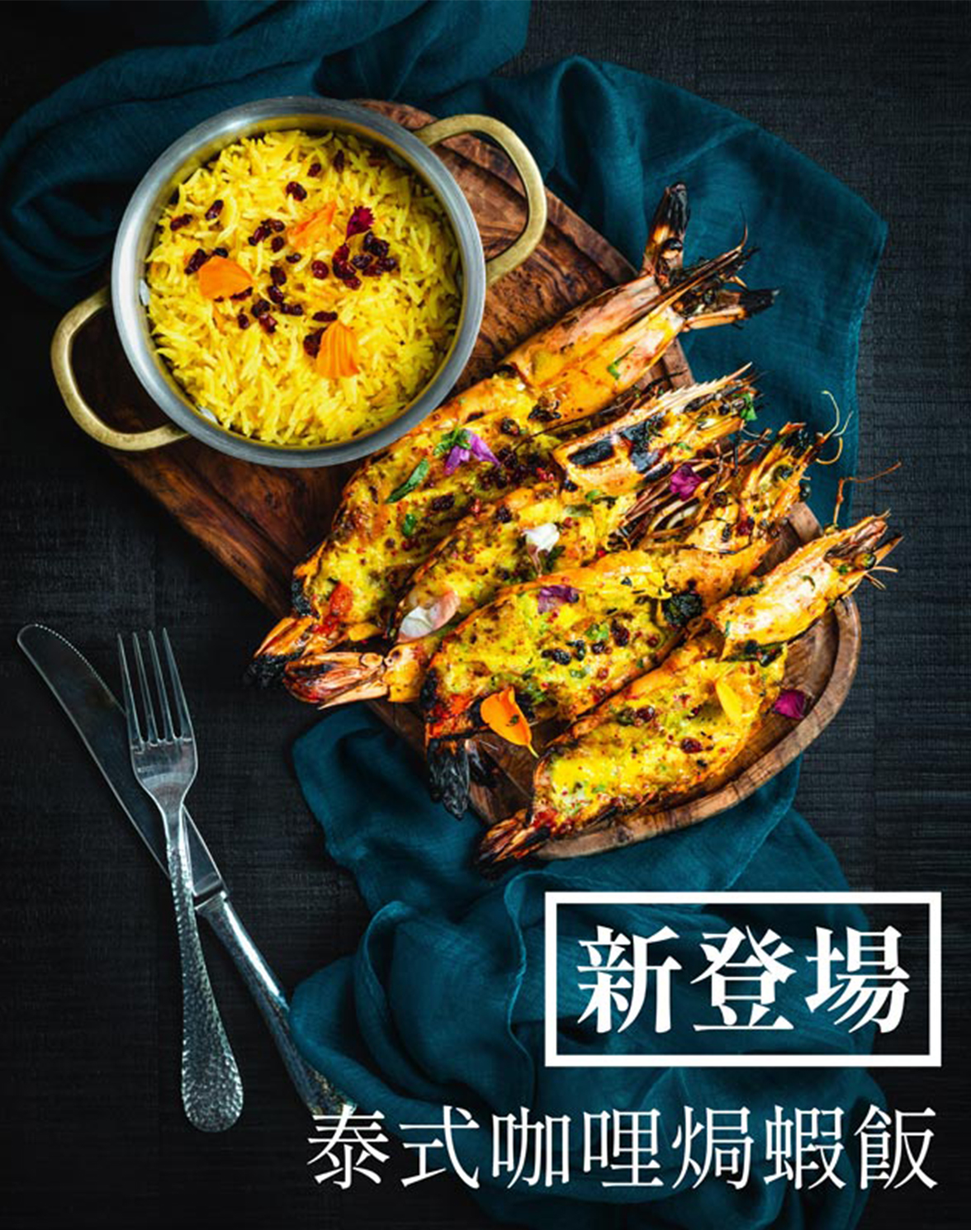
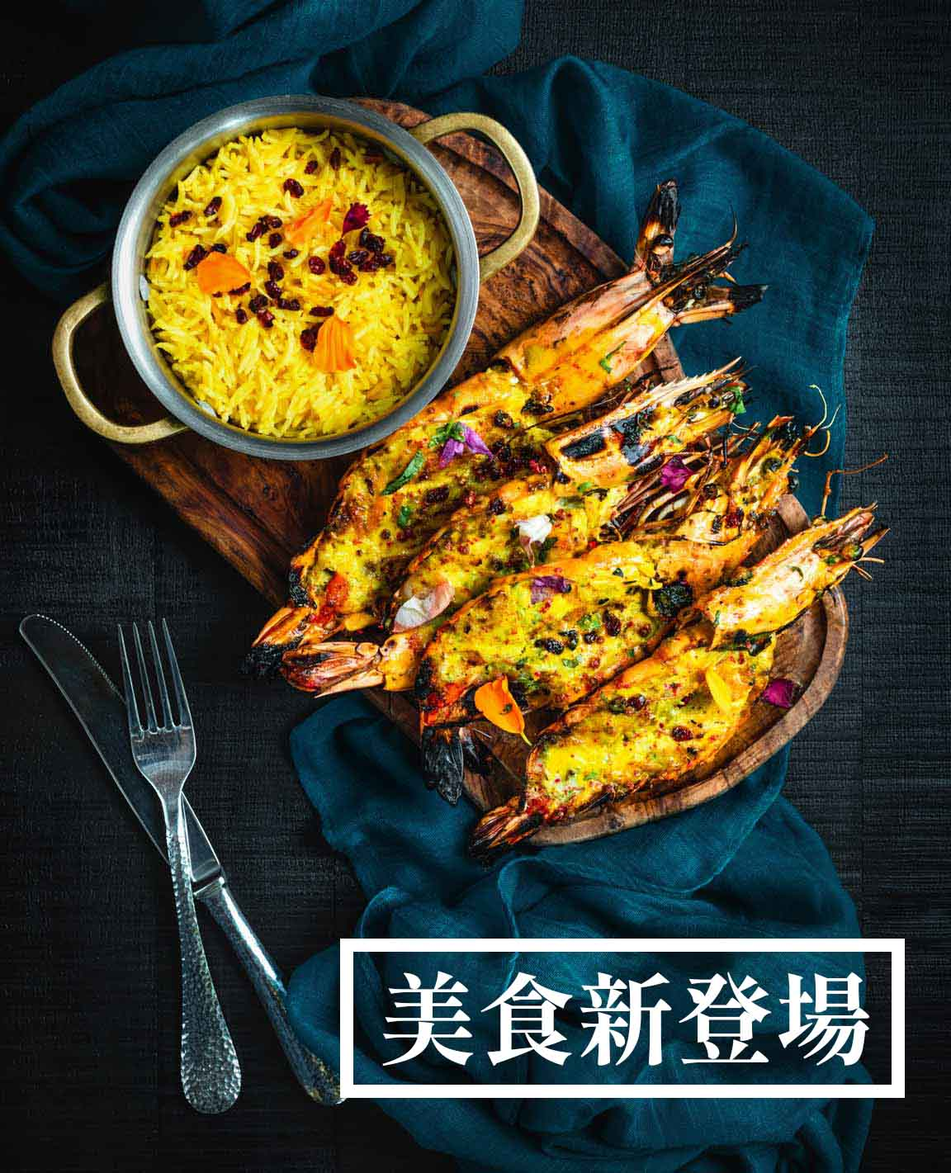
update index newitem

diff --git a/css/main.css b/css/main.css
@@ -1,1 +1,1 @@
-*{-webkit-box-sizing:border-box;box-sizing:border-box;font-family:Microsoft JhengHei}html{font-size:12px}ul{margin:0}li{list-style-type:none}img{display:block;width:100%;height:auto}a{text-decoration:none}h1{font-size:2.25rem;margin:0;padding:0.75rem 0}h2{font-size:1.75rem}p{margin:0;font-size:1.25rem;line-height:1.5;letter-spacing:0.5px}.col-4{width:100%}.col-6{width:100%}.col-12{width:100%}.container{width:83.3333333vw;margin:0 auto}.swiper-pagination-bullet{background-color:#B7B7B7}.flexbox-header{display:-webkit-box;display:-ms-flexbox;display:flex;-webkit-box-pack:justify;-ms-flex-pack:justify;justify-content:space-between;-webkit-box-align:center;-ms-flex-align:center;align-items:center}.mobile-menu{display:none;-webkit-box-orient:vertical;-webkit-box-direction:normal;-ms-flex-direction:column;flex-direction:column;width:100vw;position:fixed;top:0;left:0;right:0;bottom:0;z-index:2;background-color:#000000}.mobile-menu.active{display:-webkit-box;display:-ms-flexbox;display:flex}.mobile-menu .mobile-header{padding:1.25rem 0;background-color:#FFFFFF}.mobile-menu .mobile-header .container{display:-webkit-box;display:-ms-flexbox;display:flex;-webkit-box-pack:justify;-ms-flex-pack:justify;justify-content:space-between;-webkit-box-align:center;-ms-flex-align:center;align-items:center}.mobile-menu .mobile-logo{width:63px}.mobile-menu .mobile-cancel div{width:25px;height:3px;background-color:#000000;border-radius:4px}.mobile-menu .mobile-cancel div:first-child{-webkit-transform:translateY(1.5px) rotate(-45deg);-ms-transform:translateY(1.5px) rotate(-45deg);transform:translateY(1.5px) rotate(-45deg)}.mobile-menu .mobile-cancel div:nth-child(2){-webkit-transform:translateY(-1.5px) rotate(45deg);-ms-transform:translateY(-1.5px) rotate(45deg);transform:translateY(-1.5px) rotate(45deg)}.mobile-menu .mobile-nav{display:-webkit-box;display:-ms-flexbox;display:flex;-webkit-box-orient:vertical;-webkit-box-direction:normal;-ms-flex-direction:column;flex-direction:column;-webkit-box-pack:center;-ms-flex-pack:center;justify-content:center;-webkit-box-align:center;-ms-flex-align:center;align-items:center}.mobile-menu .mobile-nav a{width:100vw;padding:3rem 0}.mobile-menu .mobile-nav a:nth-child(2n-1){background-color:#292929}.mobile-menu .mobile-nav a:nth-child(2n){background-color:#000000}.mobile-menu .mobile-nav a p{font-size:1.75rem;color:#FFFFFF;text-align:center}.mobile-menu .mobile-social{display:-webkit-box;display:-ms-flexbox;display:flex;-webkit-box-pack:center;-ms-flex-pack:center;justify-content:center;-webkit-box-align:center;-ms-flex-align:center;align-items:center;background-color:#292929}.mobile-menu .mobile-social a{padding:2rem 0;font-size:1.75rem;color:#FFFFFF}.mobile-menu .mobile-social a:first-child{padding-right:1.5rem}.mobile-menu .mobile-social a:nth-child(2){padding-left:1.5rem}#header{margin:1.25rem 0}#header .logo{width:63px}#header .nav-left,#header .nav-right{display:none}#header .hamburger-icon>div{width:40px;height:4px;background-color:#000000}#header .hamburger-icon>div:nth-child(2){margin-top:10px}#header .hamburger-icon>div:nth-child(3){margin-top:10px}#content>div{margin-top:7.5rem}#content .pagename{margin:0}#content .pagename h1{padding:1.25rem 0;color:#6F4626}#content .slider{margin-top:0}#content .intro{margin-top:0}#content .intro h1{text-align:center}#content .newitem .newitem-content{display:-webkit-box;display:-ms-flexbox;display:flex;-webkit-box-orient:vertical;-webkit-box-direction:normal;-ms-flex-direction:column;flex-direction:column;padding:0 1.25rem;background-color:#B7B7B7}#content .newitem .newitem-content h1{padding-top:0.75rem;padding-bottom:0}#content .newitem .newitem-content p{padding-top:0.75rem}#content .newitem .newitem-content .gotomenu{width:10rem;margin:1rem 0 1.75rem 0;padding:0.75rem 0.5rem;background-color:#292929;color:#FFFFFF;font-size:1.25rem}#content .anniversary .container{width:100vw}#content .write-email{height:17.5rem;background-image:url(email.jpg);background-repeat:no-repeat;background-size:cover;background-attachment:fixed;background-position:50%;display:-webkit-box;display:-ms-flexbox;display:flex;-webkit-box-pack:center;-ms-flex-pack:center;justify-content:center;-webkit-box-align:center;-ms-flex-align:center;align-items:center}#content .write-email .container{display:-webkit-box;display:-ms-flexbox;display:flex;-webkit-box-pack:center;-ms-flex-pack:center;justify-content:center;-webkit-box-align:center;-ms-flex-align:center;align-items:center}#content .write-email .center-block{-webkit-box-orient:vertical;-webkit-box-direction:normal;-ms-flex-direction:column;flex-direction:column;-webkit-box-pack:center;-ms-flex-pack:center;justify-content:center;-webkit-box-align:center;-ms-flex-align:center;align-items:center;width:83.3333333vw;height:12rem;display:-webkit-box;display:-ms-flexbox;display:flex;background-color:rgba(111, 70, 38, 0.9)}#content .write-email .center-block h1{font-size:1.25rem;color:#FFFFFF}#content .write-email .center-block input{width:66.6666667vw;height:2.5rem;margin:0.5rem 0 0.75rem 0;padding-left:0.25rem;border:none}#content .write-email .center-block button{display:-webkit-box;display:-ms-flexbox;display:flex;-webkit-box-pack:center;-ms-flex-pack:center;justify-content:center;-webkit-box-align:center;-ms-flex-align:center;align-items:center;width:66.6666667vw;height:2.5rem;background-color:#292929;color:#FFFFFF;font-size:1.25rem;border:none}#content .delicious{margin-top:0}#content .coffee .container{display:-webkit-box;display:-ms-flexbox;display:flex;-webkit-box-orient:vertical;-webkit-box-direction:normal;-ms-flex-direction:column;flex-direction:column}#content .coffee .coffee-image{-webkit-box-ordinal-group:0;-ms-flex-order:-1;order:-1}#content .coffee .coffee-content{padding:1.25rem;background-color:#4E321C;color:#FFFFFF}#content .coffee .coffee-content p{margin-top:0.5rem}#content .coffee .coffee-content a{display:inline-block;margin:2.5rem 0 1rem 0;padding:0.5rem 1.25rem;font-size:1.75em;font-weight:800;color:#000000;background-color:#FFFFFF}#content .coffee h1{font-size:1.75rem}#content .comfortable .container{display:-webkit-box;display:-ms-flexbox;display:flex;-webkit-box-orient:vertical;-webkit-box-direction:normal;-ms-flex-direction:column;flex-direction:column}#content .comfortable .comfortable-image{-webkit-box-ordinal-group:0;-ms-flex-order:-1;order:-1}#content .comfortable .comfortable-content{padding:1.25rem;background-color:#292929;color:#FFFFFF}#content .comfortable .comfortable-content p{margin-top:0.5rem}#content .comfortable .comfortable-content a{display:inline-block;margin:2.5rem 0 1rem 0;padding:0.5rem 1.25rem;font-size:1.75em;font-weight:800;color:#000000;background-color:#FFFFFF}#content .comfortable h1{font-size:1.75rem}#content .location{background-image:url(location.jpg);background-repeat:no-repeat;background-size:cover;background-attachment:fixed;background-position:50%;display:-webkit-box;display:-ms-flexbox;display:flex;-webkit-box-pack:center;-ms-flex-pack:center;justify-content:center;-webkit-box-align:center;-ms-flex-align:center;align-items:center;height:50rem}#content .location h1{padding-bottom:1.75rem;text-align:center;color:#FFFFFF}#content .location .googlemap{display:-webkit-box;display:-ms-flexbox;display:flex;-webkit-box-pack:center;-ms-flex-pack:center;justify-content:center;-webkit-box-align:center;-ms-flex-align:center;align-items:center;padding-bottom:1.75rem;color:#FFFFFF}#content .location .googlemap iframe{width:83.3333333vw}#content .location .location-content{display:-webkit-box;display:-ms-flexbox;display:flex;-webkit-box-pack:center;-ms-flex-pack:center;justify-content:center;color:#FFFFFF}#content .location .location-content p{padding-bottom:0.75rem}#content .item-bar{margin-top:0}#content .item-bar .container{display:-webkit-box;display:-ms-flexbox;display:flex;-webkit-box-pack:justify;-ms-flex-pack:justify;justify-content:space-between;-webkit-box-align:center;-ms-flex-align:center;align-items:center}#content .item-bar .line{width:1px;height:20px;background-color:#000000}#content .item-bar a{font-size:1.25rem;font-weight:800;color:#B7B7B7}#content .item-bar .active{color:#000000}#content .all-meal{margin-top:1.25rem}#content .all-meal .fooditem{height:83.3333333vw;margin:1.25rem 0;-webkit-box-shadow:0 2px 4px rgba(0, 0, 0, 0.16);box-shadow:0 2px 4px rgba(0, 0, 0, 0.16)}#content .all-meal .item-intro{padding:0 1.25rem;height:20.8vw;display:-webkit-box;display:-ms-flexbox;display:flex;-webkit-box-orient:vertical;-webkit-box-direction:normal;-ms-flex-direction:column;flex-direction:column;-webkit-box-pack:center;-ms-flex-pack:center;justify-content:center}#content .all-meal .item-intro .item-kind{width:2.5rem;padding:0.25rem;background-color:#6F4626;color:#FFFFFF}#content .all-meal .item-intro .item-name{display:-webkit-box;display:-ms-flexbox;display:flex;-webkit-box-pack:justify;-ms-flex-pack:justify;justify-content:space-between;margin-top:0.5rem}#content .all-meal .item-intro .meal-name{font-size:1.75rem;font-weight:800}#content .all-meal .item-intro .meal-price{font-size:1.75rem}#content .all-meal .dessert,#content .all-meal .drink,#content .all-meal .main-meal,#content .all-meal .salad,#content .all-meal .snack,#content .all-meal .soup{display:none;-webkit-box-orient:vertical;-webkit-box-direction:normal;-ms-flex-direction:column;flex-direction:column}#content .all-meal .active{display:-webkit-box;display:-ms-flexbox;display:flex}#content .online{padding-top:2.5rem}#content .inputform{margin-top:0}#content .inputform input{width:100%;height:2.5rem;padding-left:0.25rem;margin-top:0.25rem;border:1px solid #B7B7B7}#content .inputform textarea{margin-top:0.25rem;width:100%;height:10rem;resize:none;border:1px solid #B7B7B7}#content .inputform label{display:inline-block;margin:0;padding-top:2rem;font-size:1.25rem;letter-spacing:0.5px}#content .inputform button{display:inline-block;margin-top:2.5rem;padding:0.5rem 1.75rem;background-color:#292929;color:#FFFFFF;border:1px solid transparent}#footer{margin-top:7.5rem;color:#B7B7B7}#footer a{color:#B7B7B7}#footer .information{background-color:#000000}#footer .information .footer-nav{display:-webkit-box;display:-ms-flexbox;display:flex;-webkit-box-orient:vertical;-webkit-box-direction:normal;-ms-flex-direction:column;flex-direction:column;-webkit-box-align:center;-ms-flex-align:center;align-items:center}#footer .information .footer-nav a{padding:0.75rem 0;font-size:1.25rem}#footer .information .footer-nav a:first-child{padding:1.75rem 0 0.75rem 0}#footer .information .social-media{display:-webkit-box;display:-ms-flexbox;display:flex;-webkit-box-pack:center;-ms-flex-pack:center;justify-content:center}#footer .information .social-media a{padding:0.75rem 0;font-size:1.5rem}#footer .information .social-media a:first-child{padding-right:1.5rem}#footer .information .copyright{display:-webkit-box;display:-ms-flexbox;display:flex;-webkit-box-pack:center;-ms-flex-pack:center;justify-content:center;padding:0.75rem 0 1.25rem 0;font-size:1rem}#footer .statement{padding:0.75rem 0;background-color:#292929;text-align:center}@media (min-width:768px) and (max-width:1279px){.col-4{width:334px}.col-6{width:50%}html{font-size:16px}.container{width:700px}#header{margin:1.75rem 0}#header .logo{width:83px}#header .nav-left,#header .nav-right{display:-webkit-box;display:-ms-flexbox;display:flex;-webkit-box-pack:center;-ms-flex-pack:center;justify-content:center;-webkit-box-align:center;-ms-flex-align:center;align-items:center}#header .aboutus,#header .home,#header .newmenu,#header .reservation{display:-webkit-box;display:-ms-flexbox;display:flex;-webkit-box-orient:vertical;-webkit-box-direction:normal;-ms-flex-direction:column;flex-direction:column;-ms-flex-pack:distribute;justify-content:space-around;-webkit-box-align:center;-ms-flex-align:center;align-items:center;width:7rem;height:5rem}#header .icon{font-size:2.5rem;font-weight:800;color:#000000}#header .name{font-size:1.25rem;font-weight:800;color:#000000}#header .nav-line{width:1px;height:5rem;background-color:#B7B7B7}#header .hamburger-menu{display:none}#content .intro{margin-top:7.5rem}#content .intro .container{width:28rem}#content .newitem .container{display:-webkit-box;display:-ms-flexbox;display:flex;-webkit-box-pack:center;-ms-flex-pack:center;justify-content:center;-webkit-box-align:center;-ms-flex-align:center;align-items:center}#content .newitem .newitem-content{height:22.5rem;padding:0 1.5rem;-webkit-box-pack:center;-ms-flex-pack:center;justify-content:center}#content .newitem .newitem-content .gotomenu{margin:1rem 0 0 0}#content .anniversary .container{width:700px}#content .write-email{width:700px;margin:7.5rem auto}#content .write-email .center-block{width:600px}#content .write-email .center-block input{width:500px;padding-left:0.5rem}#content .write-email .center-block button{width:500px}#content .delicious{width:700px;margin:0 auto}#content .delicious .container{width:28rem;margin-top:3.25rem}#content .delicious h1{text-align:center}#content .coffee .container{-webkit-box-orient:horizontal;-webkit-box-direction:normal;-ms-flex-direction:row;flex-direction:row;-webkit-box-align:center;-ms-flex-align:center;align-items:center;position:relative}#content .coffee .coffee-content{display:-webkit-box;display:-ms-flexbox;display:flex;-webkit-box-orient:vertical;-webkit-box-direction:normal;-ms-flex-direction:column;flex-direction:column;-webkit-box-pack:center;-ms-flex-pack:center;justify-content:center;position:absolute;padding:0 5rem 0 2rem;width:388px;height:447px;top:100px}#content .coffee .coffee-content a{width:187px}#content .coffee .coffee-image{width:52%;position:relative;left:336px;-webkit-box-ordinal-group:1;-ms-flex-order:0;order:0;z-index:1}#content .comfortable{margin-top:220px}#content .comfortable .container{-webkit-box-orient:horizontal;-webkit-box-direction:normal;-ms-flex-direction:row;flex-direction:row;-webkit-box-align:center;-ms-flex-align:center;align-items:center;position:relative}#content .comfortable .comfortable-content{display:-webkit-box;display:-ms-flexbox;display:flex;-webkit-box-orient:vertical;-webkit-box-direction:normal;-ms-flex-direction:column;flex-direction:column;-webkit-box-pack:center;-ms-flex-pack:center;justify-content:center;position:absolute;padding:0 1.5rem 0 5.25rem;width:388px;height:447px;top:100px;left:312px}#content .comfortable .comfortable-content a{width:187px}#content .comfortable .comfortable-image{width:52%;position:relative;z-index:1}#content .location{margin-top:220px}#content .location .googlemap iframe{width:28rem;height:25rem}#content .all-meal .fooditem{height:334px}#content .all-meal .dessert,#content .all-meal .drink,#content .all-meal .main-meal,#content .all-meal .salad,#content .all-meal .snack,#content .all-meal .soup{-webkit-box-orient:horizontal;-webkit-box-direction:normal;-ms-flex-direction:row;flex-direction:row;-webkit-box-pack:justify;-ms-flex-pack:justify;justify-content:space-between;-ms-flex-wrap:wrap;flex-wrap:wrap}#content .all-meal .item-intro{height:83.5px}}@media (min-width:1280px){.col-4{width:368px}.col-6{width:50%}html{font-size:16px}p{line-height:1.5}.container{width:1152px}#header{margin:1.75rem 0}#header .logo{width:83px}#header .nav-left,#header .nav-right{display:-webkit-box;display:-ms-flexbox;display:flex;-webkit-box-pack:center;-ms-flex-pack:center;justify-content:center;-webkit-box-align:center;-ms-flex-align:center;align-items:center}#header .aboutus,#header .home,#header .newmenu,#header .reservation{display:-webkit-box;display:-ms-flexbox;display:flex;-webkit-box-orient:vertical;-webkit-box-direction:normal;-ms-flex-direction:column;flex-direction:column;-ms-flex-pack:distribute;justify-content:space-around;-webkit-box-align:center;-ms-flex-align:center;align-items:center;width:7rem;height:5rem}#header .aboutus:hover .icon,#header .aboutus:hover .name,#header .home:hover .icon,#header .home:hover .name,#header .newmenu:hover .icon,#header .newmenu:hover .name,#header .reservation:hover .icon,#header .reservation:hover .name{color:#6F4626;-webkit-transition:all 0.2s;-o-transition:all 0.2s;transition:all 0.2s}#header .icon{font-size:2.5rem;font-weight:800;color:#000000}#header .name{font-size:1.25rem;font-weight:800;color:#000000}#header .nav-line{width:1px;height:5rem;background-color:#B7B7B7}#header .hamburger-menu{display:none}#content>div{margin-top:10rem}#content .slider{width:1152px;margin:0 auto}#content .intro{margin-top:10rem}#content .intro .container{width:35.25rem}#content .newitem .container{display:-webkit-box;display:-ms-flexbox;display:flex;-webkit-box-pack:center;-ms-flex-pack:center;justify-content:center;-webkit-box-align:center;-ms-flex-align:center;align-items:center}#content .newitem .newitem-content{height:40.25rem;padding:0 3rem;-webkit-box-pack:center;-ms-flex-pack:center;justify-content:center}#content .newitem .newitem-content p{padding-top:2rem}#content .newitem .newitem-content .gotomenu{margin:2rem 0 0 0}#content .newitem .newitem-content .gotomenu:hover{background-color:#6F4626;-webkit-transition:all 0.2s;-o-transition:all 0.2s;transition:all 0.2s}#content .anniversary .container{width:1152px}#content .write-email{width:1152px;height:27.5rem;margin:7.5rem auto}#content .write-email .center-block{width:59.75rem;height:18.75rem}#content .write-email .center-block h1{padding:0;font-size:2.25rem}#content .write-email .center-block input{width:50rem;height:50px;margin:2rem 0 1.25rem 0;padding-left:0.5rem}#content .write-email .center-block button{width:50rem;height:50px;font-size:1.5rem}#content .write-email .center-block button:hover{background-color:#000000}#content .delicious{width:1152px;margin:0 auto}#content .delicious .container{width:35.25rem;margin-top:3.25rem}#content .delicious h1{text-align:center}#content .coffee .container{-webkit-box-orient:horizontal;-webkit-box-direction:normal;-ms-flex-direction:row;flex-direction:row;-webkit-box-align:center;-ms-flex-align:center;align-items:center;position:relative}#content .coffee .coffee-content{display:-webkit-box;display:-ms-flexbox;display:flex;-webkit-box-orient:vertical;-webkit-box-direction:normal;-ms-flex-direction:column;flex-direction:column;-webkit-box-pack:center;-ms-flex-pack:center;justify-content:center;position:absolute;padding:0 8.5rem 0 2.75rem;width:640px;height:736px;top:100px}#content .coffee .coffee-content h1{font-size:2.25rem}#content .coffee .coffee-content a{width:187px}#content .coffee .coffee-content a:hover{background-color:#000000;color:#FFFFFF}#content .coffee .coffee-image{width:600px;position:relative;left:552px;-webkit-box-ordinal-group:1;-ms-flex-order:0;order:0;z-index:1}#content .comfortable{margin-top:16.25rem}#content .comfortable .container{-webkit-box-orient:horizontal;-webkit-box-direction:normal;-ms-flex-direction:row;flex-direction:row;-webkit-box-align:center;-ms-flex-align:center;align-items:center;position:relative}#content .comfortable .comfortable-content{display:-webkit-box;display:-ms-flexbox;display:flex;-webkit-box-orient:vertical;-webkit-box-direction:normal;-ms-flex-direction:column;flex-direction:column;-webkit-box-pack:center;-ms-flex-pack:center;justify-content:center;position:absolute;padding:0 2.75rem 0 8.5rem;width:640px;height:736px;top:100px;left:512px}#content .comfortable .comfortable-content h1{font-size:2.25rem}#content .comfortable .comfortable-content a{width:187px}#content .comfortable .comfortable-content a:hover{background-color:#6F4626;color:#FFFFFF}#content .comfortable .comfortable-image{width:600px;position:relative;z-index:1}#content .location{width:1152px;height:68.5rem;margin:0 auto;margin-top:16.25rem}#content .location h1{padding-bottom:2.25rem;font-size:3rem}#content .location .googlemap{padding-bottom:2.25rem}#content .location .googlemap iframe{width:47.5rem;height:37.5rem}#content .location .location-content p{font-size:1.5rem}#content .item-bar a{font-size:1.5rem}#content .item-bar a:hover{color:#6F4626;-webkit-transition:all 0.2s;-o-transition:all 0.2s;transition:all 0.2s}#content .item-bar .line{height:30px}#content .all-meal .fooditem{height:368px}#content .all-meal .dessert,#content .all-meal .drink,#content .all-meal .main-meal,#content .all-meal .salad,#content .all-meal .snack,#content .all-meal .soup{-webkit-box-orient:horizontal;-webkit-box-direction:normal;-ms-flex-direction:row;flex-direction:row;-webkit-box-pack:justify;-ms-flex-pack:justify;justify-content:space-between;-ms-flex-wrap:wrap;flex-wrap:wrap}#content .all-meal .item-intro{height:92px}#content .inputform .container{width:47.5rem}#content .inputform button:hover{background-color:#6F4626}#content .online .container{width:47.5rem}#footer .information{display:-webkit-box;display:-ms-flexbox;display:flex;-webkit-box-align:center;-ms-flex-align:center;align-items:center;height:150px}#footer .information .container{display:-webkit-box;display:-ms-flexbox;display:flex;-webkit-box-pack:justify;-ms-flex-pack:justify;justify-content:space-between;-webkit-box-align:center;-ms-flex-align:center;align-items:center}#footer .information .footer-nav{width:384px;-webkit-box-orient:horizontal;-webkit-box-direction:normal;-ms-flex-direction:row;flex-direction:row}#footer .information .footer-nav a{padding-right:1.75rem}#footer .information .footer-nav a:hover{color:#FFFFFF;-webkit-transition:all 0.2s;-o-transition:all 0.2s;transition:all 0.2s}#footer .information .footer-nav a:first-child{padding:0 1.75rem 0 0}#footer .information .footer-nav a:last-child{padding:0}#footer .information .social-media{width:384px}#footer .information .social-media a{padding:0}#footer .information .social-media a:hover{color:#FFFFFF;-webkit-transition:all 0.2s;-o-transition:all 0.2s;transition:all 0.2s}#footer .information .copyright{display:-webkit-box;display:-ms-flexbox;display:flex;-webkit-box-orient:horizontal;-webkit-box-direction:normal;-ms-flex-direction:row;flex-direction:row;-webkit-box-pack:end;-ms-flex-pack:end;justify-content:flex-end;width:384px;padding:0}#footer .statement{display:-webkit-box;display:-ms-flexbox;display:flex;-webkit-box-align:center;-ms-flex-align:center;align-items:center;height:50px}}
+*{-webkit-box-sizing:border-box;box-sizing:border-box;font-family:Microsoft JhengHei}html{font-size:12px}ul{margin:0}li{list-style-type:none}img{display:block;width:100%;height:auto}a{text-decoration:none}h1{font-size:2.25rem;margin:0;padding:0.75rem 0}h2{font-size:1.75rem}p{margin:0;font-size:1.25rem;line-height:1.5;letter-spacing:0.5px}.col-4{width:100%}.col-6{width:100%}.col-12{width:100%}.container{width:83.3333333vw;margin:0 auto}.swiper-pagination-bullet{background-color:#B7B7B7}.flexbox-header{display:-webkit-box;display:-ms-flexbox;display:flex;-webkit-box-pack:justify;-ms-flex-pack:justify;justify-content:space-between;-webkit-box-align:center;-ms-flex-align:center;align-items:center}.mobile-menu{display:none;-webkit-box-orient:vertical;-webkit-box-direction:normal;-ms-flex-direction:column;flex-direction:column;width:100vw;position:fixed;top:0;left:0;right:0;bottom:0;z-index:2;background-color:#000000}.mobile-menu.active{display:-webkit-box;display:-ms-flexbox;display:flex}.mobile-menu .mobile-header{padding:1.25rem 0;background-color:#FFFFFF}.mobile-menu .mobile-header .container{display:-webkit-box;display:-ms-flexbox;display:flex;-webkit-box-pack:justify;-ms-flex-pack:justify;justify-content:space-between;-webkit-box-align:center;-ms-flex-align:center;align-items:center}.mobile-menu .mobile-logo{width:63px}.mobile-menu .mobile-cancel div{width:25px;height:3px;background-color:#000000;border-radius:4px}.mobile-menu .mobile-cancel div:first-child{-webkit-transform:translateY(1.5px) rotate(-45deg);-ms-transform:translateY(1.5px) rotate(-45deg);transform:translateY(1.5px) rotate(-45deg)}.mobile-menu .mobile-cancel div:nth-child(2){-webkit-transform:translateY(-1.5px) rotate(45deg);-ms-transform:translateY(-1.5px) rotate(45deg);transform:translateY(-1.5px) rotate(45deg)}.mobile-menu .mobile-nav{display:-webkit-box;display:-ms-flexbox;display:flex;-webkit-box-orient:vertical;-webkit-box-direction:normal;-ms-flex-direction:column;flex-direction:column;-webkit-box-pack:center;-ms-flex-pack:center;justify-content:center;-webkit-box-align:center;-ms-flex-align:center;align-items:center}.mobile-menu .mobile-nav a{width:100vw;padding:3rem 0}.mobile-menu .mobile-nav a:nth-child(2n-1){background-color:#292929}.mobile-menu .mobile-nav a:nth-child(2n){background-color:#000000}.mobile-menu .mobile-nav a p{font-size:1.75rem;color:#FFFFFF;text-align:center}.mobile-menu .mobile-social{display:-webkit-box;display:-ms-flexbox;display:flex;-webkit-box-pack:center;-ms-flex-pack:center;justify-content:center;-webkit-box-align:center;-ms-flex-align:center;align-items:center;background-color:#292929}.mobile-menu .mobile-social a{padding:2rem 0;font-size:1.75rem;color:#FFFFFF}.mobile-menu .mobile-social a:first-child{padding-right:1.5rem}.mobile-menu .mobile-social a:nth-child(2){padding-left:1.5rem}#header{margin:1.25rem 0}#header .logo{width:63px}#header .nav-left,#header .nav-right{display:none}#header .hamburger-icon>div{width:40px;height:4px;background-color:#000000}#header .hamburger-icon>div:nth-child(2){margin-top:10px}#header .hamburger-icon>div:nth-child(3){margin-top:10px}#content>div{margin-top:7.5rem}#content .pagename{margin:0}#content .pagename h1{padding:1.25rem 0;color:#6F4626}#content .slider{margin-top:0}#content .intro{margin-top:0}#content .intro h1{text-align:center}#content .newitem .newitem-intro{display:none}#content .newitem .newitem-content{display:-webkit-box;display:-ms-flexbox;display:flex;-webkit-box-orient:vertical;-webkit-box-direction:normal;-ms-flex-direction:column;flex-direction:column;padding:0 1.25rem;background-color:#B7B7B7}#content .newitem .newitem-content h1{padding-top:0.75rem;padding-bottom:0}#content .newitem .newitem-content p{padding-top:0.75rem}#content .newitem .newitem-content .gotomenu{width:10rem;margin:1rem 0 1.75rem 0;padding:0.75rem 0.5rem;background-color:#292929;color:#FFFFFF;font-size:1.25rem}#content .anniversary .container{width:100vw}#content .write-email{height:17.5rem;background-image:url(email.jpg);background-repeat:no-repeat;background-size:cover;background-attachment:fixed;background-position:50%;display:-webkit-box;display:-ms-flexbox;display:flex;-webkit-box-pack:center;-ms-flex-pack:center;justify-content:center;-webkit-box-align:center;-ms-flex-align:center;align-items:center}#content .write-email .container{display:-webkit-box;display:-ms-flexbox;display:flex;-webkit-box-pack:center;-ms-flex-pack:center;justify-content:center;-webkit-box-align:center;-ms-flex-align:center;align-items:center}#content .write-email .center-block{-webkit-box-orient:vertical;-webkit-box-direction:normal;-ms-flex-direction:column;flex-direction:column;-webkit-box-pack:center;-ms-flex-pack:center;justify-content:center;-webkit-box-align:center;-ms-flex-align:center;align-items:center;width:83.3333333vw;height:12rem;display:-webkit-box;display:-ms-flexbox;display:flex;background-color:rgba(111, 70, 38, 0.9)}#content .write-email .center-block h1{font-size:1.25rem;color:#FFFFFF}#content .write-email .center-block input{width:66.6666667vw;height:2.5rem;margin:0.5rem 0 0.75rem 0;padding-left:0.25rem;border:none}#content .write-email .center-block button{display:-webkit-box;display:-ms-flexbox;display:flex;-webkit-box-pack:center;-ms-flex-pack:center;justify-content:center;-webkit-box-align:center;-ms-flex-align:center;align-items:center;width:66.6666667vw;height:2.5rem;background-color:#292929;color:#FFFFFF;font-size:1.25rem;border:none}#content .delicious{margin-top:0}#content .coffee .container{display:-webkit-box;display:-ms-flexbox;display:flex;-webkit-box-orient:vertical;-webkit-box-direction:normal;-ms-flex-direction:column;flex-direction:column}#content .coffee .coffee-image{-webkit-box-ordinal-group:0;-ms-flex-order:-1;order:-1}#content .coffee .coffee-content{padding:1.25rem;background-color:#4E321C;color:#FFFFFF}#content .coffee .coffee-content p{margin-top:0.5rem}#content .coffee .coffee-content a{display:inline-block;margin:2.5rem 0 1rem 0;padding:0.5rem 1.25rem;font-size:1.75em;font-weight:800;color:#000000;background-color:#FFFFFF}#content .coffee h1{font-size:1.75rem}#content .comfortable .container{display:-webkit-box;display:-ms-flexbox;display:flex;-webkit-box-orient:vertical;-webkit-box-direction:normal;-ms-flex-direction:column;flex-direction:column}#content .comfortable .comfortable-image{-webkit-box-ordinal-group:0;-ms-flex-order:-1;order:-1}#content .comfortable .comfortable-content{padding:1.25rem;background-color:#292929;color:#FFFFFF}#content .comfortable .comfortable-content p{margin-top:0.5rem}#content .comfortable .comfortable-content a{display:inline-block;margin:2.5rem 0 1rem 0;padding:0.5rem 1.25rem;font-size:1.75em;font-weight:800;color:#000000;background-color:#FFFFFF}#content .comfortable h1{font-size:1.75rem}#content .location{background-image:url(location.jpg);background-repeat:no-repeat;background-size:cover;background-attachment:fixed;background-position:50%;display:-webkit-box;display:-ms-flexbox;display:flex;-webkit-box-pack:center;-ms-flex-pack:center;justify-content:center;-webkit-box-align:center;-ms-flex-align:center;align-items:center;height:50rem}#content .location h1{padding-bottom:1.75rem;text-align:center;color:#FFFFFF}#content .location .googlemap{display:-webkit-box;display:-ms-flexbox;display:flex;-webkit-box-pack:center;-ms-flex-pack:center;justify-content:center;-webkit-box-align:center;-ms-flex-align:center;align-items:center;padding-bottom:1.75rem;color:#FFFFFF}#content .location .googlemap iframe{width:83.3333333vw}#content .location .location-content{display:-webkit-box;display:-ms-flexbox;display:flex;-webkit-box-pack:center;-ms-flex-pack:center;justify-content:center;color:#FFFFFF}#content .location .location-content p{padding-bottom:0.75rem}#content .item-bar{margin-top:0}#content .item-bar .container{display:-webkit-box;display:-ms-flexbox;display:flex;-webkit-box-pack:justify;-ms-flex-pack:justify;justify-content:space-between;-webkit-box-align:center;-ms-flex-align:center;align-items:center}#content .item-bar .line{width:1px;height:20px;background-color:#000000}#content .item-bar a{font-size:1.25rem;font-weight:800;color:#B7B7B7}#content .item-bar .active{color:#000000}#content .all-meal{margin-top:1.25rem}#content .all-meal .fooditem{height:83.3333333vw;margin:1.25rem 0;-webkit-box-shadow:0 2px 4px rgba(0, 0, 0, 0.16);box-shadow:0 2px 4px rgba(0, 0, 0, 0.16)}#content .all-meal .item-intro{padding:0 1.25rem;height:20.8vw;display:-webkit-box;display:-ms-flexbox;display:flex;-webkit-box-orient:vertical;-webkit-box-direction:normal;-ms-flex-direction:column;flex-direction:column;-webkit-box-pack:center;-ms-flex-pack:center;justify-content:center}#content .all-meal .item-intro .item-kind{width:2.5rem;padding:0.25rem;background-color:#6F4626;color:#FFFFFF}#content .all-meal .item-intro .item-name{display:-webkit-box;display:-ms-flexbox;display:flex;-webkit-box-pack:justify;-ms-flex-pack:justify;justify-content:space-between;margin-top:0.5rem}#content .all-meal .item-intro .meal-name{font-size:1.75rem;font-weight:800}#content .all-meal .item-intro .meal-price{font-size:1.75rem}#content .all-meal .dessert,#content .all-meal .drink,#content .all-meal .main-meal,#content .all-meal .salad,#content .all-meal .snack,#content .all-meal .soup{display:none;-webkit-box-orient:vertical;-webkit-box-direction:normal;-ms-flex-direction:column;flex-direction:column}#content .all-meal .active{display:-webkit-box;display:-ms-flexbox;display:flex}#content .online{padding-top:2.5rem}#content .inputform{margin-top:0}#content .inputform input{width:100%;height:2.5rem;padding-left:0.25rem;margin-top:0.25rem;border:1px solid #B7B7B7}#content .inputform textarea{margin-top:0.25rem;width:100%;height:10rem;resize:none;border:1px solid #B7B7B7}#content .inputform label{display:inline-block;margin:0;padding-top:2rem;font-size:1.25rem;letter-spacing:0.5px}#content .inputform button{display:inline-block;margin-top:2.5rem;padding:0.5rem 1.75rem;background-color:#292929;color:#FFFFFF;border:1px solid transparent}#footer{margin-top:7.5rem;color:#B7B7B7}#footer a{color:#B7B7B7}#footer .information{background-color:#000000}#footer .information .footer-nav{display:-webkit-box;display:-ms-flexbox;display:flex;-webkit-box-orient:vertical;-webkit-box-direction:normal;-ms-flex-direction:column;flex-direction:column;-webkit-box-align:center;-ms-flex-align:center;align-items:center}#footer .information .footer-nav a{padding:0.75rem 0;font-size:1.25rem}#footer .information .footer-nav a:first-child{padding:1.75rem 0 0.75rem 0}#footer .information .social-media{display:-webkit-box;display:-ms-flexbox;display:flex;-webkit-box-pack:center;-ms-flex-pack:center;justify-content:center}#footer .information .social-media a{padding:0.75rem 0;font-size:1.5rem}#footer .information .social-media a:first-child{padding-right:1.5rem}#footer .information .copyright{display:-webkit-box;display:-ms-flexbox;display:flex;-webkit-box-pack:center;-ms-flex-pack:center;justify-content:center;padding:0.75rem 0 1.25rem 0;font-size:1rem}#footer .statement{padding:0.75rem 0;background-color:#292929;text-align:center}@media (min-width:768px) and (max-width:1279px){.col-4{width:334px}.col-6{width:50%}html{font-size:16px}.container{width:700px}#header{margin:1.75rem 0}#header .logo{width:83px}#header .nav-left,#header .nav-right{display:-webkit-box;display:-ms-flexbox;display:flex;-webkit-box-pack:center;-ms-flex-pack:center;justify-content:center;-webkit-box-align:center;-ms-flex-align:center;align-items:center}#header .aboutus,#header .home,#header .newmenu,#header .reservation{display:-webkit-box;display:-ms-flexbox;display:flex;-webkit-box-orient:vertical;-webkit-box-direction:normal;-ms-flex-direction:column;flex-direction:column;-ms-flex-pack:distribute;justify-content:space-around;-webkit-box-align:center;-ms-flex-align:center;align-items:center;width:7rem;height:5rem}#header .icon{font-size:2.5rem;font-weight:800;color:#000000}#header .name{font-size:1.25rem;font-weight:800;color:#000000}#header .nav-line{width:1px;height:5rem;background-color:#B7B7B7}#header .hamburger-menu{display:none}#content .intro{margin-top:7.5rem}#content .intro .container{width:28rem}#content .newitem .container{display:-webkit-box;display:-ms-flexbox;display:flex;-webkit-box-pack:center;-ms-flex-pack:center;justify-content:center;-webkit-box-align:center;-ms-flex-align:center;align-items:center}#content .newitem .newitem-content{height:22.5rem;padding:0 1.5rem;-webkit-box-pack:center;-ms-flex-pack:center;justify-content:center}#content .newitem .newitem-content .gotomenu{margin:1rem 0 0 0}#content .anniversary .container{width:700px}#content .write-email{width:700px;margin:7.5rem auto}#content .write-email .center-block{width:600px}#content .write-email .center-block input{width:500px;padding-left:0.5rem}#content .write-email .center-block button{width:500px}#content .delicious{width:700px;margin:0 auto}#content .delicious .container{width:28rem;margin-top:3.25rem}#content .delicious h1{text-align:center}#content .coffee .container{-webkit-box-orient:horizontal;-webkit-box-direction:normal;-ms-flex-direction:row;flex-direction:row;-webkit-box-align:center;-ms-flex-align:center;align-items:center;position:relative}#content .coffee .coffee-content{display:-webkit-box;display:-ms-flexbox;display:flex;-webkit-box-orient:vertical;-webkit-box-direction:normal;-ms-flex-direction:column;flex-direction:column;-webkit-box-pack:center;-ms-flex-pack:center;justify-content:center;position:absolute;padding:0 5rem 0 2rem;width:388px;height:447px;top:100px}#content .coffee .coffee-content a{width:187px}#content .coffee .coffee-image{width:52%;position:relative;left:336px;-webkit-box-ordinal-group:1;-ms-flex-order:0;order:0;z-index:1}#content .comfortable{margin-top:220px}#content .comfortable .container{-webkit-box-orient:horizontal;-webkit-box-direction:normal;-ms-flex-direction:row;flex-direction:row;-webkit-box-align:center;-ms-flex-align:center;align-items:center;position:relative}#content .comfortable .comfortable-content{display:-webkit-box;display:-ms-flexbox;display:flex;-webkit-box-orient:vertical;-webkit-box-direction:normal;-ms-flex-direction:column;flex-direction:column;-webkit-box-pack:center;-ms-flex-pack:center;justify-content:center;position:absolute;padding:0 1.5rem 0 5.25rem;width:388px;height:447px;top:100px;left:312px}#content .comfortable .comfortable-content a{width:187px}#content .comfortable .comfortable-image{width:52%;position:relative;z-index:1}#content .location{margin-top:220px}#content .location .googlemap iframe{width:28rem;height:25rem}#content .all-meal .fooditem{height:334px}#content .all-meal .dessert,#content .all-meal .drink,#content .all-meal .main-meal,#content .all-meal .salad,#content .all-meal .snack,#content .all-meal .soup{-webkit-box-orient:horizontal;-webkit-box-direction:normal;-ms-flex-direction:row;flex-direction:row;-webkit-box-pack:justify;-ms-flex-pack:justify;justify-content:space-between;-ms-flex-wrap:wrap;flex-wrap:wrap}#content .all-meal .item-intro{height:83.5px}}@media (min-width:1280px){.col-4{width:368px}.col-6{width:50%}html{font-size:16px}p{line-height:1.5}.container{width:1152px}#header{margin:1.75rem 0}#header .logo{width:83px}#header .nav-left,#header .nav-right{display:-webkit-box;display:-ms-flexbox;display:flex;-webkit-box-pack:center;-ms-flex-pack:center;justify-content:center;-webkit-box-align:center;-ms-flex-align:center;align-items:center}#header .aboutus,#header .home,#header .newmenu,#header .reservation{display:-webkit-box;display:-ms-flexbox;display:flex;-webkit-box-orient:vertical;-webkit-box-direction:normal;-ms-flex-direction:column;flex-direction:column;-ms-flex-pack:distribute;justify-content:space-around;-webkit-box-align:center;-ms-flex-align:center;align-items:center;width:7rem;height:5rem}#header .aboutus:hover .icon,#header .aboutus:hover .name,#header .home:hover .icon,#header .home:hover .name,#header .newmenu:hover .icon,#header .newmenu:hover .name,#header .reservation:hover .icon,#header .reservation:hover .name{color:#6F4626;-webkit-transition:all 0.2s;-o-transition:all 0.2s;transition:all 0.2s}#header .icon{font-size:2.5rem;font-weight:800;color:#000000}#header .name{font-size:1.25rem;font-weight:800;color:#000000}#header .nav-line{width:1px;height:5rem;background-color:#B7B7B7}#header .hamburger-menu{display:none}#content>div{margin-top:10rem}#content .slider{width:1152px;margin:0 auto}#content .intro{margin-top:10rem}#content .intro .container{width:35.25rem}#content .newitem .container{display:-webkit-box;display:-ms-flexbox;display:flex;-webkit-box-pack:center;-ms-flex-pack:center;justify-content:center;-webkit-box-align:center;-ms-flex-align:center;align-items:center}#content .newitem .newitem-img{position:relative}#content .newitem .newitem-intro{display:-webkit-box;display:-ms-flexbox;display:flex;-webkit-box-orient:vertical;-webkit-box-direction:normal;-ms-flex-direction:column;flex-direction:column;-webkit-box-pack:center;-ms-flex-pack:center;justify-content:center;-webkit-box-align:center;-ms-flex-align:center;align-items:center;position:absolute;bottom:0;top:0;right:0;left:0;background-color:rgba(0, 0, 0, 0)}#content .newitem .newitem-intro p{display:inline-block;font-size:3rem;color:rgba(0, 0, 0, 0)}#content .newitem .newitem-intro p:first-child{padding:1rem 0;font-size:3.5rem;font-weight:800}#content .newitem .newitem-intro:hover{background-color:rgba(0, 0, 0, 0.8);-webkit-transition:all 0.3s;-o-transition:all 0.3s;transition:all 0.3s}#content .newitem .newitem-intro:hover p{color:#FFFFFF;-webkit-transition:all 0.3s;-o-transition:all 0.3s;transition:all 0.3s}#content .newitem .newitem-content{height:40.25rem;padding:0 3rem;-webkit-box-pack:center;-ms-flex-pack:center;justify-content:center}#content .newitem .newitem-content p{padding-top:2rem}#content .newitem .newitem-content .gotomenu{margin:2rem 0 0 0}#content .newitem .newitem-content .gotomenu:hover{background-color:#6F4626;-webkit-transition:all 0.2s;-o-transition:all 0.2s;transition:all 0.2s}#content .anniversary .container{width:1152px}#content .write-email{width:1152px;height:27.5rem;margin:7.5rem auto}#content .write-email .center-block{width:59.75rem;height:18.75rem}#content .write-email .center-block h1{padding:0;font-size:2.25rem}#content .write-email .center-block input{width:50rem;height:50px;margin:2rem 0 1.25rem 0;padding-left:0.5rem}#content .write-email .center-block button{width:50rem;height:50px;font-size:1.5rem}#content .write-email .center-block button:hover{background-color:#000000}#content .delicious{width:1152px;margin:0 auto}#content .delicious .container{width:35.25rem;margin-top:3.25rem}#content .delicious h1{text-align:center}#content .coffee .container{-webkit-box-orient:horizontal;-webkit-box-direction:normal;-ms-flex-direction:row;flex-direction:row;-webkit-box-align:center;-ms-flex-align:center;align-items:center;position:relative}#content .coffee .coffee-content{display:-webkit-box;display:-ms-flexbox;display:flex;-webkit-box-orient:vertical;-webkit-box-direction:normal;-ms-flex-direction:column;flex-direction:column;-webkit-box-pack:center;-ms-flex-pack:center;justify-content:center;position:absolute;padding:0 8.5rem 0 2.75rem;width:640px;height:736px;top:100px}#content .coffee .coffee-content h1{font-size:2.25rem}#content .coffee .coffee-content a{width:187px}#content .coffee .coffee-content a:hover{background-color:#000000;color:#FFFFFF}#content .coffee .coffee-image{width:600px;position:relative;left:552px;-webkit-box-ordinal-group:1;-ms-flex-order:0;order:0;z-index:1}#content .comfortable{margin-top:16.25rem}#content .comfortable .container{-webkit-box-orient:horizontal;-webkit-box-direction:normal;-ms-flex-direction:row;flex-direction:row;-webkit-box-align:center;-ms-flex-align:center;align-items:center;position:relative}#content .comfortable .comfortable-content{display:-webkit-box;display:-ms-flexbox;display:flex;-webkit-box-orient:vertical;-webkit-box-direction:normal;-ms-flex-direction:column;flex-direction:column;-webkit-box-pack:center;-ms-flex-pack:center;justify-content:center;position:absolute;padding:0 2.75rem 0 8.5rem;width:640px;height:736px;top:100px;left:512px}#content .comfortable .comfortable-content h1{font-size:2.25rem}#content .comfortable .comfortable-content a{width:187px}#content .comfortable .comfortable-content a:hover{background-color:#6F4626;color:#FFFFFF}#content .comfortable .comfortable-image{width:600px;position:relative;z-index:1}#content .location{width:1152px;height:68.5rem;margin:0 auto;margin-top:16.25rem}#content .location h1{padding-bottom:2.25rem;font-size:3rem}#content .location .googlemap{padding-bottom:2.25rem}#content .location .googlemap iframe{width:47.5rem;height:37.5rem}#content .location .location-content p{font-size:1.5rem}#content .item-bar a{font-size:1.5rem}#content .item-bar a:hover{color:#6F4626;-webkit-transition:all 0.2s;-o-transition:all 0.2s;transition:all 0.2s}#content .item-bar .line{height:30px}#content .all-meal .fooditem{height:368px}#content .all-meal .dessert,#content .all-meal .drink,#content .all-meal .main-meal,#content .all-meal .salad,#content .all-meal .snack,#content .all-meal .soup{-webkit-box-orient:horizontal;-webkit-box-direction:normal;-ms-flex-direction:row;flex-direction:row;-webkit-box-pack:justify;-ms-flex-pack:justify;justify-content:space-between;-ms-flex-wrap:wrap;flex-wrap:wrap}#content .all-meal .item-intro{height:92px}#content .inputform .container{width:47.5rem}#content .inputform button:hover{background-color:#6F4626}#content .online .container{width:47.5rem}#footer .information{display:-webkit-box;display:-ms-flexbox;display:flex;-webkit-box-align:center;-ms-flex-align:center;align-items:center;height:150px}#footer .information .container{display:-webkit-box;display:-ms-flexbox;display:flex;-webkit-box-pack:justify;-ms-flex-pack:justify;justify-content:space-between;-webkit-box-align:center;-ms-flex-align:center;align-items:center}#footer .information .footer-nav{width:384px;-webkit-box-orient:horizontal;-webkit-box-direction:normal;-ms-flex-direction:row;flex-direction:row}#footer .information .footer-nav a{padding-right:1.75rem}#footer .information .footer-nav a:hover{color:#FFFFFF;-webkit-transition:all 0.2s;-o-transition:all 0.2s;transition:all 0.2s}#footer .information .footer-nav a:first-child{padding:0 1.75rem 0 0}#footer .information .footer-nav a:last-child{padding:0}#footer .information .social-media{width:384px}#footer .information .social-media a{padding:0}#footer .information .social-media a:hover{color:#FFFFFF;-webkit-transition:all 0.2s;-o-transition:all 0.2s;transition:all 0.2s}#footer .information .copyright{display:-webkit-box;display:-ms-flexbox;display:flex;-webkit-box-orient:horizontal;-webkit-box-direction:normal;-ms-flex-direction:row;flex-direction:row;-webkit-box-pack:end;-ms-flex-pack:end;justify-content:flex-end;width:384px;padding:0}#footer .statement{display:-webkit-box;display:-ms-flexbox;display:flex;-webkit-box-align:center;-ms-flex-align:center;align-items:center;height:50px}}

diff --git a/less/main.less b/less/main.less
@@ -202,6 +202,9 @@ p {
 		}
 	}
 	.newitem {
+		.newitem-intro {
+			display: none;
+		}
 		.newitem-content {
 			display: flex;
 			flex-direction: column;
@@ -780,6 +783,39 @@ p {
 				display: flex;
 				justify-content: center;
 				align-items: center;
+			}
+			.newitem-img {
+				position: relative;
+			}
+			.newitem-intro {
+				display: flex;
+				flex-direction: column;
+				justify-content: center;
+				align-items: center;
+				position: absolute;
+				bottom: 0;
+				top: 0;
+				right: 0;
+				left: 0;
+				background-color: rgba(0, 0, 0, 0);
+				p {
+					display: inline-block;
+					font-size: 3rem;
+					color: rgba(0, 0, 0, 0);
+				}
+				p:nth-child(1) {
+					padding: 1rem 0;
+					font-size: 3.5rem;
+					font-weight: 800;
+				}
+				&:hover {
+					background-color: rgba(0, 0, 0, 0.8);
+					transition: all .3s;
+					p {
+						color: @color_4;
+						transition: all .3s;
+					}
+				}
 			}
 			.newitem-content {
 				height: 40.25rem;

diff --git a/index.html b/index.html
@@ -130,6 +130,10 @@
 			<div class="container">
 				<div class="newitem-img col-6">
 					<img src="img/index/新登場.jpg" alt="餐酒新登場">
+					<div class="newitem-intro">
+						<p>泰式咖哩焗蝦飯</p>
+						<p>限時特價$250</p>
+					</div>
 				</div>
 				<div class="newitem-content col-6">
 					<h1>本月新品！</h1>
